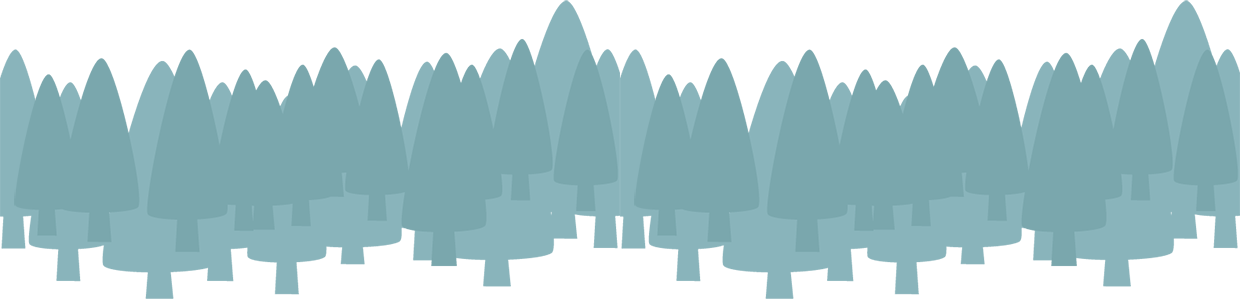
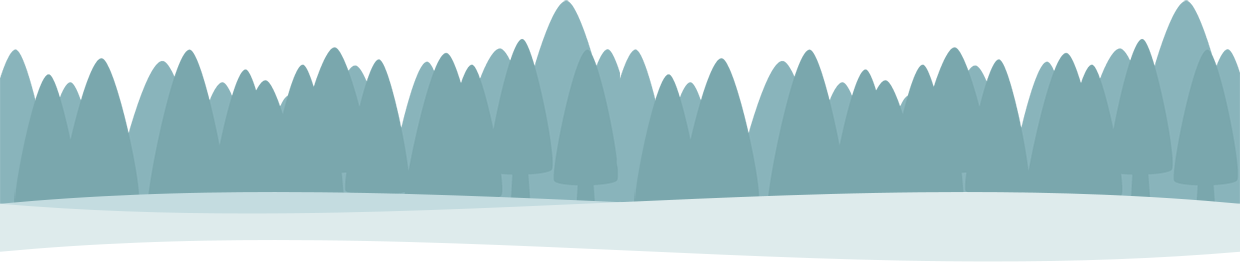
snow

diff --git a/storybook-holiday/new.html b/storybook-holiday/new.html
@@ -118,7 +118,8 @@ h1.block-font {
 
 .tree-row {
     background: #9ecad1 url("tree-line.png") bottom center repeat-x;
-    height: 300px;
+    height: 368px;
+    border-bottom: 100px solid #fff;
 }
 
 </style>
